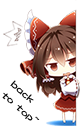
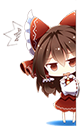
改良侧边栏导航

Changed region(s): [[0.125, 0.619, 0.425, 0.8333], [0.2, 0.8333, 0.5, 0.9762], [0.025, 0.7381, 0.175, 0.8333]]

diff --git a/assets/css/main.css b/assets/css/main.css
@@ -131,34 +131,24 @@ button {
 	font-size:1px;
 	line-height:0px;
 }
-/*
 .backToTop {
-	width: 23px;
-	height: 72px;
-	display: block;
-	text-decoration:none;
-	background: url(../images/backToTop.png) no-repeat 0 0;
-	position: fixed;
-	left: 50%;
-	margin-left: 435px;
-	bottom: 120px;
-	z-index: 10000;
-	text-shadow:#aaa 0 0 5px;
-}
-*/
-.backToTop {
-	width: 100px;
-	height: 157px;
+	width:80px;
+	height:126px;
 	text-decoration:none;
 	background:url(../img/backtotop.png) right bottom no-repeat;
-	position: fixed;
-	left: 50%;
-	margin-left: -516px;
-	margin-left: -486px;
-	top: 48px;
-	z-index: 10000;
-
+	position:fixed;
+	left:50%;
+	top:80px;
+	margin-left:-466px;
+	z-index:10000;
 }
+.backToTop_text {
+	opacity:0;
+}
+.backToTop_text:hover {
+	opacity:1;
+}
+
 
 
 /*****************************************************************************/
@@ -180,7 +170,7 @@ button {
 .header_menu {
 	display:block;
 	background:#e5e5e5 url(../img/menu_bg.jpg);
-	border-radius:0px 15px 0px 15px;
+	border-radius: 15px 0px 15px 0;
 	-moz-border-radius:0px 10px 0px 10px;
 	width:100%;
 	height:150px;
@@ -618,6 +608,7 @@ button {
 	width:120px;
 	border:1px #999 solid;
 	border-radius:10px;
+	-moz-border-radius:10px;
 	margin-right:15px;
 }
 .about_introduction {
@@ -741,6 +732,7 @@ button {
 	font-size:75%;
 	float:right;
 	border-radius:5px;
+	-moz-border-radius:50px;
 	padding:0px 10px;
 	margin-top:-30px;
 	margin-right:-10px;

diff --git a/_layouts/default.html b/_layouts/default.html
@@ -89,7 +89,7 @@
 			页面使用HTML5+CSS3设计，Windows用户强烈推荐使用<a href="http://www.google.com/intl/zh-CN/chrome/" target="_blank">Chrome</a>浏览器观看，或者<a href="http://windows.microsoft.com/zh-cn/internet-explorer/ie-9-worldwide-languages" target="_blank">IE9</a>及<a href="http://windows.microsoft.com/zh-cn/internet-explorer/ie-10-worldwide-languages" target="_blank">以上</a>,<a href="http://www.mozilla.org/en-US/firefox/new/" target="_blank">Firefox</a>,<a href="http://www.opera.com/zh-cn" target="_blank">Opera</a>等浏览器 </p>
 	</div>
 	<!-- 返回顶部 -->
-	<div >
+	<div>
 		<script type="text/javascript">
 			$(document).ready(function(){
 				$(".backToTop").click(function(){
@@ -97,7 +97,7 @@
 				});
 			});
 		</script>
-		<button type="button" class="backToTop"></button>
+		<button class="backToTop" type="button"><img src="{{site.baseurl}}/assets/img/backtotop_text.png" class="backToTop_text" /></button>
 	</div>
 </div>
 </body>

diff --git a/_layouts/topic.html b/_layouts/topic.html
@@ -18,7 +18,7 @@ layout: default
 		<script type="text/javascript">
 		$(document).ready(function(){
 			$(".tag{{tagid}}").click(function(){
-				$("html,body").animate({scrollTop: $("#{{tag[0]}}").offset().top - 25 }, 400);
+				$("html,body").animate({scrollTop: $("#{{tag[0]}}").offset().top - 230 }, 400);
 			});
 		});
 		</script>
